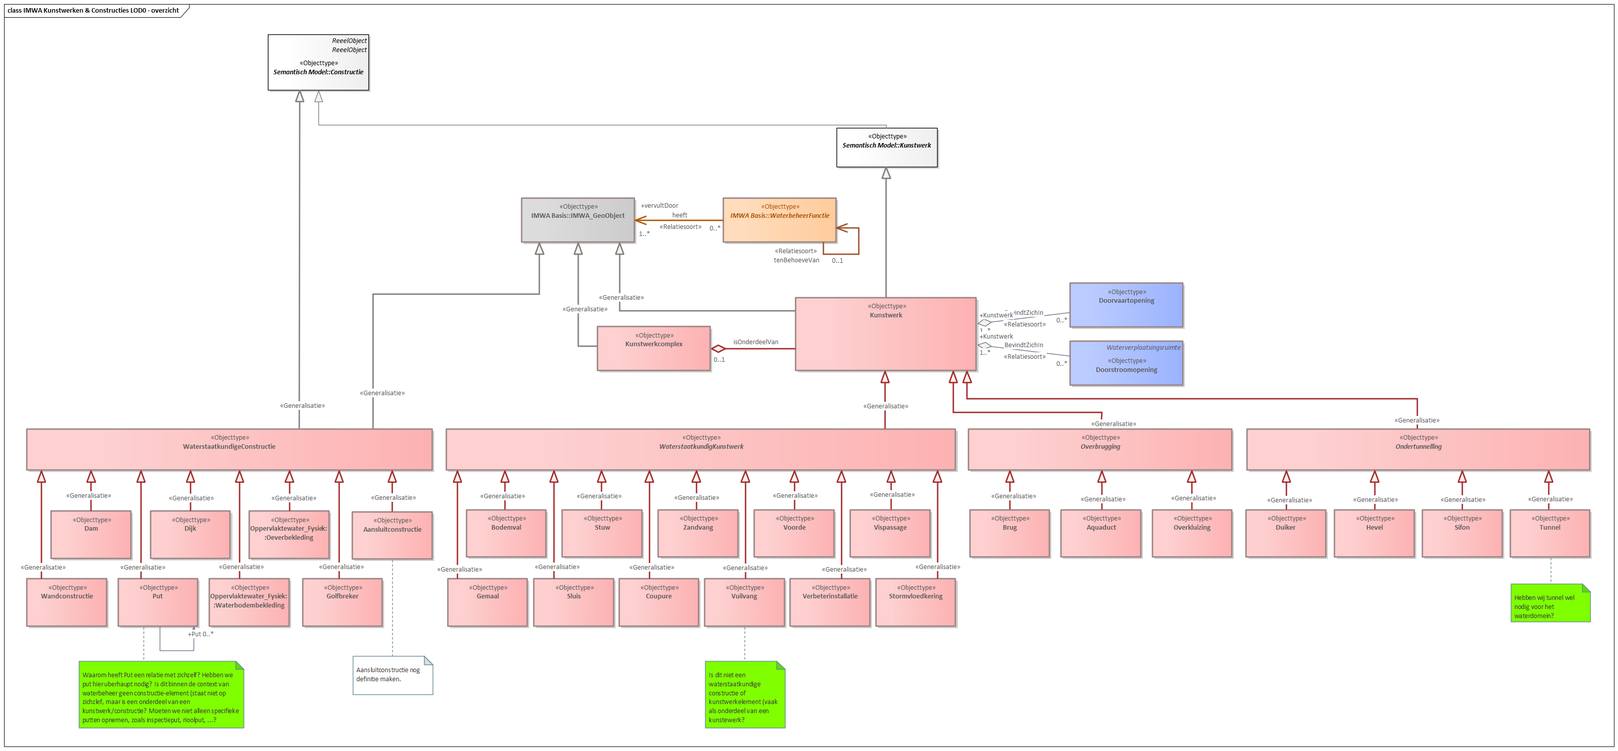
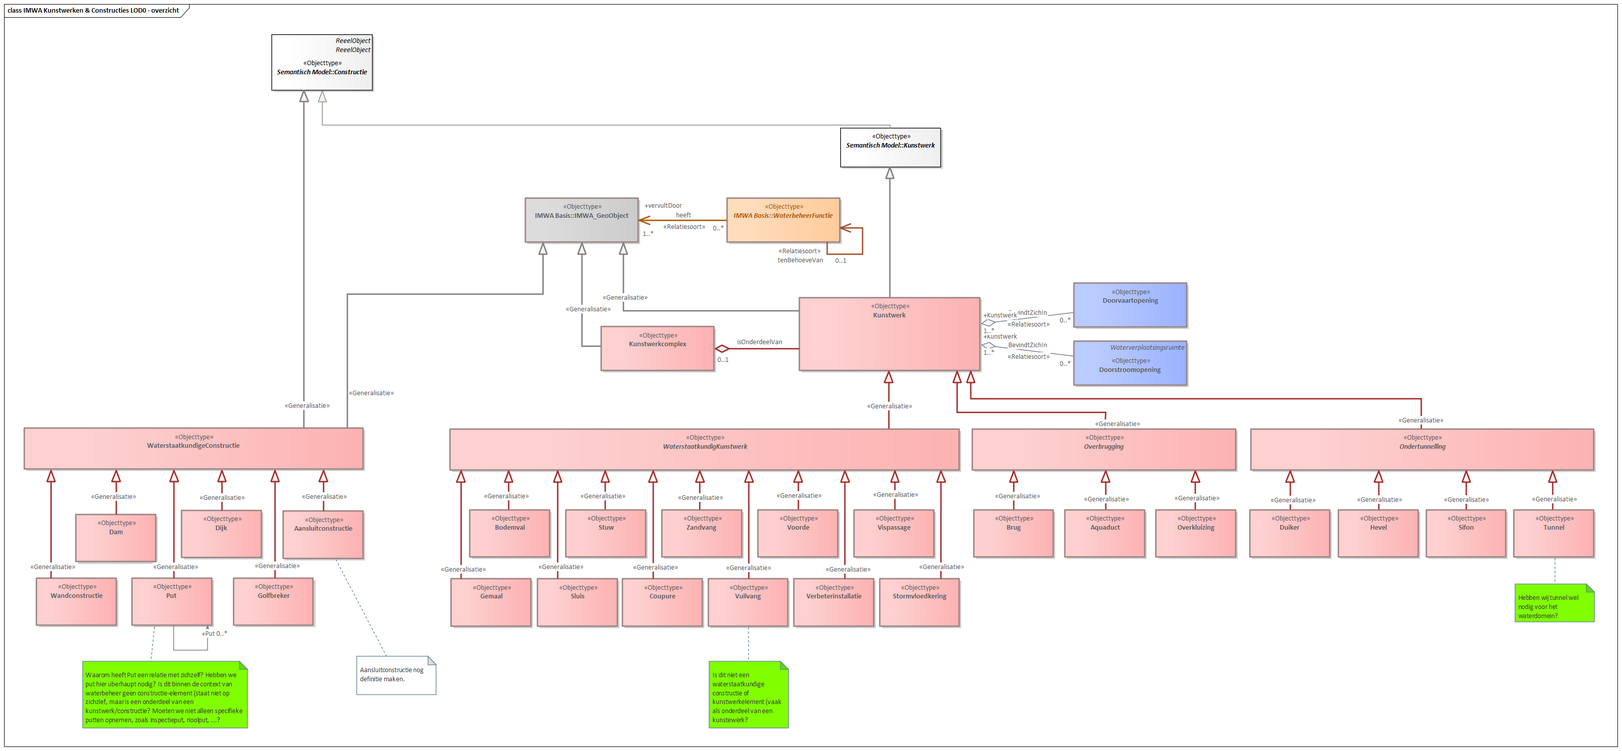
SIM-IMWA2024Kunstwerken-22.1-1-20231026-20231123-094743

diff --git a/data/IMWA-KW-cat.respec.full.html b/data/IMWA-KW-cat.respec.full.html
@@ -32,7 +32,7 @@
       </section>
       <section id="sotd">
          <p>
-            Deze documentatie van het conceptueel model is laatst bijgewerkt op November 22, 2023 at 15:55:18.
+            Deze documentatie van het conceptueel model is laatst bijgewerkt op November 23, 2023 at 09:48:03.
             </p>
       </section>
       <section id="prologue" class="informative" level="1">
@@ -44,10 +44,10 @@
       <section id="cat" class="normative">
          <h2>Gegevensdefinitie</h2>
          <p><b>Deze tekst is normatief.</b>
-            <!--SIM-IMWA2024Kunstwerken-22.1-1-20231026-20231122-155458 imvertor Nightly-build.13--></p>
+            <!--SIM-IMWA2024Kunstwerken-22.1-1-20231026-20231123-094743 imvertor Nightly-build.13--></p>
          <section id="global_package_KunstwerkenConstructies">
             <h3>Domein   Kunstwerken &amp; Constructies</h3>
-            <div class="imageinfo overview"><img src="Images/EAID_213362C7_D62D_4ac6_AD45_44339833EAC1.png" usemap="#imagemap-EAID_213362C7_D62D_4ac6_AD45_44339833EAC1" alt="Diagram &#xA;                        &#xA;                     "><map name="imagemap-EAID_213362C7_D62D_4ac6_AD45_44339833EAC1"><area shape="rect" alt="Aansluitconstructie" coords="697,1013,856,1107" href="#global_class_KunstwerkenConstructies_Aansluitconstructie"><area shape="rect" alt="Kunstwerkcomplex" coords="1182,646,1406,734" href="#global_class_KunstwerkenConstructies_Kunstwerkcomplex"><area shape="rect" alt="Doorvaartopening" coords="2117,560,2341,648" href="#global_class_KunstwerkenConstructies_Doorvaartopening"><area shape="rect" alt="Doorstroomopening" coords="2117,675,2341,763" href="#global_class_KunstwerkenConstructies_Doorstroomopening"><area shape="rect" alt="Vispassage" coords="1682,1009,1841,1103" href="#global_class_KunstwerkenConstructies_Vispassage"><area shape="rect" alt="Verbeterinstallatie" coords="1563,1145,1722,1240" href="#global_class_KunstwerkenConstructies_Verbeterinstallatie"><area shape="rect" alt="Vuilvang" coords="1394,1145,1553,1240" href="#global_class_KunstwerkenConstructies_Vuilvang"><area shape="rect" alt="Stormvloedkering" coords="1733,1145,1891,1240" href="#global_class_KunstwerkenConstructies_Stormvloedkering"><area shape="rect" alt="Gemaal" coords="886,1145,1044,1240" href="#global_class_KunstwerkenConstructies_Gemaal"><area shape="rect" alt="Overkluizing" coords="2280,1009,2438,1103" href="#global_class_KunstwerkenConstructies_Overkluizing"><area shape="rect" alt="Tunnel" coords="2988,1009,3146,1103" href="#global_class_KunstwerkenConstructies_Tunnel"><area shape="rect" alt="Coupure" coords="1225,1145,1383,1240" href="#global_class_KunstwerkenConstructies_Coupure"><area shape="rect" alt="Bodemval" coords="923,1009,1081,1103" href="#global_class_KunstwerkenConstructies_Bodemval"><area shape="rect" alt="Voorde" coords="1492,1009,1651,1103" href="#global_class_KunstwerkenConstructies_Voorde"><area shape="rect" alt="Aquaduct" coords="2099,1009,2258,1103" href="#global_class_KunstwerkenConstructies_Aquaduct"><area shape="rect" alt="Stuw" coords="1112,1009,1271,1103" href="#global_class_KunstwerkenConstructies_Stuw"><area shape="rect" alt="Sifon" coords="2814,1009,2973,1103" href="#global_class_KunstwerkenConstructies_Sifon"><area shape="rect" alt="Hevel" coords="2640,1009,2799,1103" href="#global_class_KunstwerkenConstructies_Hevel"><area shape="rect" alt="Duiker" coords="2465,1009,2624,1103" href="#global_class_KunstwerkenConstructies_Duiker"><area shape="rect" alt="Zandvang" coords="1302,1009,1461,1103" href="#global_class_KunstwerkenConstructies_Zandvang"><area shape="rect" alt="Ondertunnelling" coords="2467,849,3146,931" href="#global_class_KunstwerkenConstructies_Ondertunnelling"><area shape="rect" alt="Brug" coords="1919,1009,2077,1103" href="#global_class_KunstwerkenConstructies_Brug"><area shape="rect" alt="WaterstaatkundigKunstwerk" coords="883,849,1891,931" href="#global_class_KunstwerkenConstructies_WaterstaatkundigKunstwerk"><area shape="rect" alt="Overbrugging" coords="1916,849,2438,931" href="#global_class_KunstwerkenConstructies_Overbrugging"><area shape="rect" alt="Sluis" coords="1056,1145,1215,1240" href="#global_class_KunstwerkenConstructies_Sluis"><area shape="rect" alt="Kunstwerk" coords="1574,589,1932,734" href="#global_class_KunstwerkenConstructies_Kunstwerk"><area shape="rect" alt="WaterstaatkundigeConstructie" coords="53,849,856,931" href="#global_class_KunstwerkenConstructies_WaterstaatkundigeConstructie"><area shape="rect" alt="Golfbreker" coords="599,1145,757,1240" href="#global_class_KunstwerkenConstructies_Golfbreker"><area shape="rect" alt="Put" coords="234,1145,392,1240" href="#global_class_KunstwerkenConstructies_Put"><area shape="rect" alt="Dijk" coords="298,1011,456,1106" href="#global_class_KunstwerkenConstructies_Dijk"><area shape="rect" alt="Wandconstructie" coords="53,1145,212,1240" href="#global_class_KunstwerkenConstructies_Wandconstructie"><area shape="rect" alt="Dam" coords="101,1011,260,1106" href="#global_class_KunstwerkenConstructies_Dam"></map><p><b>IMWA Kunstwerken &amp; Constructies LOD0 - overzicht</b></p>
+            <div class="imageinfo overview"><img src="Images/EAID_213362C7_D62D_4ac6_AD45_44339833EAC1.png" usemap="#imagemap-EAID_213362C7_D62D_4ac6_AD45_44339833EAC1" alt="Diagram &#xA;                        &#xA;                     "><map name="imagemap-EAID_213362C7_D62D_4ac6_AD45_44339833EAC1"><area shape="rect" alt="Aansluitconstructie" coords="560,1011,719,1106" href="#global_class_KunstwerkenConstructies_Aansluitconstructie"><area shape="rect" alt="Kunstwerkcomplex" coords="1189,646,1413,734" href="#global_class_KunstwerkenConstructies_Kunstwerkcomplex"><area shape="rect" alt="Doorvaartopening" coords="2124,560,2348,648" href="#global_class_KunstwerkenConstructies_Doorvaartopening"><area shape="rect" alt="Doorstroomopening" coords="2124,675,2348,763" href="#global_class_KunstwerkenConstructies_Doorstroomopening"><area shape="rect" alt="Vispassage" coords="1689,1009,1848,1103" href="#global_class_KunstwerkenConstructies_Vispassage"><area shape="rect" alt="Verbeterinstallatie" coords="1570,1145,1729,1240" href="#global_class_KunstwerkenConstructies_Verbeterinstallatie"><area shape="rect" alt="Vuilvang" coords="1401,1145,1559,1240" href="#global_class_KunstwerkenConstructies_Vuilvang"><area shape="rect" alt="Stormvloedkering" coords="1740,1145,1898,1240" href="#global_class_KunstwerkenConstructies_Stormvloedkering"><area shape="rect" alt="Gemaal" coords="892,1145,1051,1240" href="#global_class_KunstwerkenConstructies_Gemaal"><area shape="rect" alt="Overkluizing" coords="2286,1009,2445,1103" href="#global_class_KunstwerkenConstructies_Overkluizing"><area shape="rect" alt="Tunnel" coords="2994,1009,3153,1103" href="#global_class_KunstwerkenConstructies_Tunnel"><area shape="rect" alt="Coupure" coords="1231,1145,1390,1240" href="#global_class_KunstwerkenConstructies_Coupure"><area shape="rect" alt="Bodemval" coords="929,1009,1088,1103" href="#global_class_KunstwerkenConstructies_Bodemval"><area shape="rect" alt="Voorde" coords="1499,1009,1658,1103" href="#global_class_KunstwerkenConstructies_Voorde"><area shape="rect" alt="Aquaduct" coords="2106,1009,2265,1103" href="#global_class_KunstwerkenConstructies_Aquaduct"><area shape="rect" alt="Stuw" coords="1119,1009,1278,1103" href="#global_class_KunstwerkenConstructies_Stuw"><area shape="rect" alt="Sifon" coords="2821,1009,2979,1103" href="#global_class_KunstwerkenConstructies_Sifon"><area shape="rect" alt="Hevel" coords="2647,1009,2806,1103" href="#global_class_KunstwerkenConstructies_Hevel"><area shape="rect" alt="Duiker" coords="2472,1009,2631,1103" href="#global_class_KunstwerkenConstructies_Duiker"><area shape="rect" alt="Zandvang" coords="1309,1009,1468,1103" href="#global_class_KunstwerkenConstructies_Zandvang"><area shape="rect" alt="Ondertunnelling" coords="2474,849,3153,931" href="#global_class_KunstwerkenConstructies_Ondertunnelling"><area shape="rect" alt="Brug" coords="1926,1009,2084,1103" href="#global_class_KunstwerkenConstructies_Brug"><area shape="rect" alt="WaterstaatkundigKunstwerk" coords="890,849,1898,931" href="#global_class_KunstwerkenConstructies_WaterstaatkundigKunstwerk"><area shape="rect" alt="Overbrugging" coords="1923,849,2445,931" href="#global_class_KunstwerkenConstructies_Overbrugging"><area shape="rect" alt="Sluis" coords="1063,1145,1222,1240" href="#global_class_KunstwerkenConstructies_Sluis"><area shape="rect" alt="Kunstwerk" coords="1581,589,1939,734" href="#global_class_KunstwerkenConstructies_Kunstwerk"><area shape="rect" alt="WaterstaatkundigeConstructie" coords="48,847,719,929" href="#global_class_KunstwerkenConstructies_WaterstaatkundigeConstructie"><area shape="rect" alt="Golfbreker" coords="462,1144,620,1238" href="#global_class_KunstwerkenConstructies_Golfbreker"><area shape="rect" alt="Put" coords="261,1144,420,1238" href="#global_class_KunstwerkenConstructies_Put"><area shape="rect" alt="Dijk" coords="359,1010,518,1104" href="#global_class_KunstwerkenConstructies_Dijk"><area shape="rect" alt="Wandconstructie" coords="72,1144,231,1238" href="#global_class_KunstwerkenConstructies_Wandconstructie"><area shape="rect" alt="Dam" coords="150,1018,309,1112" href="#global_class_KunstwerkenConstructies_Dam"></map><p><b>IMWA Kunstwerken &amp; Constructies LOD0 - overzicht</b></p>
             </div>
             <div class="imageinfo overview"><img src="Images/EAID_708D0E0D_D16B_4aab_AD9E_EC33FC895A26.png" usemap="#imagemap-EAID_708D0E0D_D16B_4aab_AD9E_EC33FC895A26" alt="Diagram &#xA;                        &#xA;                     "><map name="imagemap-EAID_708D0E0D_D16B_4aab_AD9E_EC33FC895A26"><area shape="rect" alt="Aansluitconstructie" coords="228,1264,529,1386" href="#global_class_KunstwerkenConstructies_Aansluitconstructie"><area shape="rect" alt="Kunstwerkcomplex" coords="1380,754,1604,864" href="#global_class_KunstwerkenConstructies_Kunstwerkcomplex"><area shape="rect" alt="Doorvaartopening" coords="2465,879,2821,1005" href="#global_class_KunstwerkenConstructies_Doorvaartopening"><area shape="rect" alt="Doorstroomopening" coords="2463,649,2822,851" href="#global_class_KunstwerkenConstructies_Doorstroomopening"><area shape="rect" alt="Vispassage" coords="1061,1807,1279,1946" href="#global_class_KunstwerkenConstructies_Vispassage"><area shape="rect" alt="Verbeterinstallatie" coords="1164,2005,1460,2144" href="#global_class_KunstwerkenConstructies_Verbeterinstallatie"><area shape="rect" alt="Vuilvang" coords="942,2005,1138,2144" href="#global_class_KunstwerkenConstructies_Vuilvang"><area shape="rect" alt="Stormvloedkering" coords="1330,1807,1527,1946" href="#global_class_KunstwerkenConstructies_Stormvloedkering"><area shape="rect" alt="Gemaal" coords="328,1807,525,1946" href="#global_class_KunstwerkenConstructies_Gemaal"><area shape="rect" alt="Overkluizing" coords="2224,1807,2457,1946" href="#global_class_KunstwerkenConstructies_Overkluizing"><area shape="rect" alt="Tunnel" coords="3816,1807,4049,1964" href="#global_class_KunstwerkenConstructies_Tunnel"><area shape="rect" alt="Coupure" coords="682,2005,913,2144" href="#global_class_KunstwerkenConstructies_Coupure"><area shape="rect" alt="Bodemval" coords="48,2005,398,2144" href="#global_class_KunstwerkenConstructies_Bodemval"><area shape="rect" alt="Voorde" coords="577,1807,774,1946" href="#global_class_KunstwerkenConstructies_Voorde"><area shape="rect" alt="Aquaduct" coords="1855,1807,2204,1946" href="#global_class_KunstwerkenConstructies_Aquaduct"><area shape="rect" alt="Stuw" coords="422,2005,653,2144" href="#global_class_KunstwerkenConstructies_Stuw"><area shape="rect" alt="Sifon" coords="3380,1807,3786,1964" href="#global_class_KunstwerkenConstructies_Sifon"><area shape="rect" alt="Hevel" coords="2934,1807,3348,1964" href="#global_class_KunstwerkenConstructies_Hevel"><area shape="rect" alt="Duiker" coords="2505,1807,2911,1963" href="#global_class_KunstwerkenConstructies_Duiker"><area shape="rect" alt="Zandvang" coords="817,1807,1014,1946" href="#global_class_KunstwerkenConstructies_Zandvang"><area shape="rect" alt="Ondertunnelling" coords="3145,1542,3583,1628" href="#global_class_KunstwerkenConstructies_Ondertunnelling"><area shape="rect" alt="Brug" coords="1563,1807,1841,1946" href="#global_class_KunstwerkenConstructies_Brug"><area shape="rect" alt="WaterstaatkundigKunstwerk" coords="585,1542,1074,1625" href="#global_class_KunstwerkenConstructies_WaterstaatkundigKunstwerk"><area shape="rect" alt="Overbrugging" coords="1908,1542,2109,1625" href="#global_class_KunstwerkenConstructies_Overbrugging"><area shape="rect" alt="Sluis" coords="48,1807,279,1946" href="#global_class_KunstwerkenConstructies_Sluis"><area shape="rect" alt="Kunstwerk" coords="1830,741,2187,992" href="#global_class_KunstwerkenConstructies_Kunstwerk"><area shape="rect" alt="WaterstaatkundigeConstructie" coords="649,742,1099,962" href="#global_class_KunstwerkenConstructies_WaterstaatkundigeConstructie"><area shape="rect" alt="Golfbreker" coords="924,1264,1141,1386" href="#global_class_KunstwerkenConstructies_Golfbreker"><area shape="rect" alt="Put" coords="1036,1084,1212,1205" href="#global_class_KunstwerkenConstructies_Put"><area shape="rect" alt="Dijk" coords="768,1084,968,1205" href="#global_class_KunstwerkenConstructies_Dijk"><area shape="rect" alt="Wandconstructie" coords="573,1264,862,1386" href="#global_class_KunstwerkenConstructies_Wandconstructie"><area shape="rect" alt="Dam" coords="467,1084,712,1205" href="#global_class_KunstwerkenConstructies_Dam"></map><p><b>IMWA Kunstwerken &amp; Constructies LOD1 - overzicht</b></p>
             </div>

diff --git a/data/IMWA-KW-cat.respec.html b/data/IMWA-KW-cat.respec.html
@@ -32,7 +32,7 @@
       </section>
       <section id="sotd">
          <p>
-            Deze documentatie van het conceptueel model is laatst bijgewerkt op November 22, 2023 at 15:55:18.
+            Deze documentatie van het conceptueel model is laatst bijgewerkt op November 23, 2023 at 09:48:04.
             </p>
       </section>
       <section id="prologue" class="informative" level="1">
@@ -44,10 +44,10 @@
       <section id="cat" class="normative">
          <h2>Gegevensdefinitie</h2>
          <p><b>Deze tekst is normatief.</b>
-            <!--SIM-IMWA2024Kunstwerken-22.1-1-20231026-20231122-155458 imvertor Nightly-build.13--></p>
+            <!--SIM-IMWA2024Kunstwerken-22.1-1-20231026-20231123-094743 imvertor Nightly-build.13--></p>
          <section id="global_package_KunstwerkenConstructies">
             <h3>Domein   Kunstwerken &amp; Constructies</h3>
-            <div class="imageinfo overview"><img src="Images/EAID_213362C7_D62D_4ac6_AD45_44339833EAC1.png" usemap="#imagemap-EAID_213362C7_D62D_4ac6_AD45_44339833EAC1" alt="Diagram &#xA;                        &#xA;                     "><map name="imagemap-EAID_213362C7_D62D_4ac6_AD45_44339833EAC1"><area shape="rect" alt="Aansluitconstructie" coords="697,1013,856,1107" href="#global_class_KunstwerkenConstructies_Aansluitconstructie"><area shape="rect" alt="Kunstwerkcomplex" coords="1182,646,1406,734" href="#global_class_KunstwerkenConstructies_Kunstwerkcomplex"><area shape="rect" alt="Doorvaartopening" coords="2117,560,2341,648" href="#global_class_KunstwerkenConstructies_Doorvaartopening"><area shape="rect" alt="Doorstroomopening" coords="2117,675,2341,763" href="#global_class_KunstwerkenConstructies_Doorstroomopening"><area shape="rect" alt="Vispassage" coords="1682,1009,1841,1103" href="#global_class_KunstwerkenConstructies_Vispassage"><area shape="rect" alt="Verbeterinstallatie" coords="1563,1145,1722,1240" href="#global_class_KunstwerkenConstructies_Verbeterinstallatie"><area shape="rect" alt="Vuilvang" coords="1394,1145,1553,1240" href="#global_class_KunstwerkenConstructies_Vuilvang"><area shape="rect" alt="Stormvloedkering" coords="1733,1145,1891,1240" href="#global_class_KunstwerkenConstructies_Stormvloedkering"><area shape="rect" alt="Gemaal" coords="886,1145,1044,1240" href="#global_class_KunstwerkenConstructies_Gemaal"><area shape="rect" alt="Overkluizing" coords="2280,1009,2438,1103" href="#global_class_KunstwerkenConstructies_Overkluizing"><area shape="rect" alt="Tunnel" coords="2988,1009,3146,1103" href="#global_class_KunstwerkenConstructies_Tunnel"><area shape="rect" alt="Coupure" coords="1225,1145,1383,1240" href="#global_class_KunstwerkenConstructies_Coupure"><area shape="rect" alt="Bodemval" coords="923,1009,1081,1103" href="#global_class_KunstwerkenConstructies_Bodemval"><area shape="rect" alt="Voorde" coords="1492,1009,1651,1103" href="#global_class_KunstwerkenConstructies_Voorde"><area shape="rect" alt="Aquaduct" coords="2099,1009,2258,1103" href="#global_class_KunstwerkenConstructies_Aquaduct"><area shape="rect" alt="Stuw" coords="1112,1009,1271,1103" href="#global_class_KunstwerkenConstructies_Stuw"><area shape="rect" alt="Sifon" coords="2814,1009,2973,1103" href="#global_class_KunstwerkenConstructies_Sifon"><area shape="rect" alt="Hevel" coords="2640,1009,2799,1103" href="#global_class_KunstwerkenConstructies_Hevel"><area shape="rect" alt="Duiker" coords="2465,1009,2624,1103" href="#global_class_KunstwerkenConstructies_Duiker"><area shape="rect" alt="Zandvang" coords="1302,1009,1461,1103" href="#global_class_KunstwerkenConstructies_Zandvang"><area shape="rect" alt="Ondertunnelling" coords="2467,849,3146,931" href="#global_class_KunstwerkenConstructies_Ondertunnelling"><area shape="rect" alt="Brug" coords="1919,1009,2077,1103" href="#global_class_KunstwerkenConstructies_Brug"><area shape="rect" alt="WaterstaatkundigKunstwerk" coords="883,849,1891,931" href="#global_class_KunstwerkenConstructies_WaterstaatkundigKunstwerk"><area shape="rect" alt="Overbrugging" coords="1916,849,2438,931" href="#global_class_KunstwerkenConstructies_Overbrugging"><area shape="rect" alt="Sluis" coords="1056,1145,1215,1240" href="#global_class_KunstwerkenConstructies_Sluis"><area shape="rect" alt="Kunstwerk" coords="1574,589,1932,734" href="#global_class_KunstwerkenConstructies_Kunstwerk"><area shape="rect" alt="WaterstaatkundigeConstructie" coords="53,849,856,931" href="#global_class_KunstwerkenConstructies_WaterstaatkundigeConstructie"><area shape="rect" alt="Golfbreker" coords="599,1145,757,1240" href="#global_class_KunstwerkenConstructies_Golfbreker"><area shape="rect" alt="Put" coords="234,1145,392,1240" href="#global_class_KunstwerkenConstructies_Put"><area shape="rect" alt="Dijk" coords="298,1011,456,1106" href="#global_class_KunstwerkenConstructies_Dijk"><area shape="rect" alt="Wandconstructie" coords="53,1145,212,1240" href="#global_class_KunstwerkenConstructies_Wandconstructie"><area shape="rect" alt="Dam" coords="101,1011,260,1106" href="#global_class_KunstwerkenConstructies_Dam"></map><p><b>IMWA Kunstwerken &amp; Constructies LOD0 - overzicht</b></p>
+            <div class="imageinfo overview"><img src="Images/EAID_213362C7_D62D_4ac6_AD45_44339833EAC1.png" usemap="#imagemap-EAID_213362C7_D62D_4ac6_AD45_44339833EAC1" alt="Diagram &#xA;                        &#xA;                     "><map name="imagemap-EAID_213362C7_D62D_4ac6_AD45_44339833EAC1"><area shape="rect" alt="Aansluitconstructie" coords="560,1011,719,1106" href="#global_class_KunstwerkenConstructies_Aansluitconstructie"><area shape="rect" alt="Kunstwerkcomplex" coords="1189,646,1413,734" href="#global_class_KunstwerkenConstructies_Kunstwerkcomplex"><area shape="rect" alt="Doorvaartopening" coords="2124,560,2348,648" href="#global_class_KunstwerkenConstructies_Doorvaartopening"><area shape="rect" alt="Doorstroomopening" coords="2124,675,2348,763" href="#global_class_KunstwerkenConstructies_Doorstroomopening"><area shape="rect" alt="Vispassage" coords="1689,1009,1848,1103" href="#global_class_KunstwerkenConstructies_Vispassage"><area shape="rect" alt="Verbeterinstallatie" coords="1570,1145,1729,1240" href="#global_class_KunstwerkenConstructies_Verbeterinstallatie"><area shape="rect" alt="Vuilvang" coords="1401,1145,1559,1240" href="#global_class_KunstwerkenConstructies_Vuilvang"><area shape="rect" alt="Stormvloedkering" coords="1740,1145,1898,1240" href="#global_class_KunstwerkenConstructies_Stormvloedkering"><area shape="rect" alt="Gemaal" coords="892,1145,1051,1240" href="#global_class_KunstwerkenConstructies_Gemaal"><area shape="rect" alt="Overkluizing" coords="2286,1009,2445,1103" href="#global_class_KunstwerkenConstructies_Overkluizing"><area shape="rect" alt="Tunnel" coords="2994,1009,3153,1103" href="#global_class_KunstwerkenConstructies_Tunnel"><area shape="rect" alt="Coupure" coords="1231,1145,1390,1240" href="#global_class_KunstwerkenConstructies_Coupure"><area shape="rect" alt="Bodemval" coords="929,1009,1088,1103" href="#global_class_KunstwerkenConstructies_Bodemval"><area shape="rect" alt="Voorde" coords="1499,1009,1658,1103" href="#global_class_KunstwerkenConstructies_Voorde"><area shape="rect" alt="Aquaduct" coords="2106,1009,2265,1103" href="#global_class_KunstwerkenConstructies_Aquaduct"><area shape="rect" alt="Stuw" coords="1119,1009,1278,1103" href="#global_class_KunstwerkenConstructies_Stuw"><area shape="rect" alt="Sifon" coords="2821,1009,2979,1103" href="#global_class_KunstwerkenConstructies_Sifon"><area shape="rect" alt="Hevel" coords="2647,1009,2806,1103" href="#global_class_KunstwerkenConstructies_Hevel"><area shape="rect" alt="Duiker" coords="2472,1009,2631,1103" href="#global_class_KunstwerkenConstructies_Duiker"><area shape="rect" alt="Zandvang" coords="1309,1009,1468,1103" href="#global_class_KunstwerkenConstructies_Zandvang"><area shape="rect" alt="Ondertunnelling" coords="2474,849,3153,931" href="#global_class_KunstwerkenConstructies_Ondertunnelling"><area shape="rect" alt="Brug" coords="1926,1009,2084,1103" href="#global_class_KunstwerkenConstructies_Brug"><area shape="rect" alt="WaterstaatkundigKunstwerk" coords="890,849,1898,931" href="#global_class_KunstwerkenConstructies_WaterstaatkundigKunstwerk"><area shape="rect" alt="Overbrugging" coords="1923,849,2445,931" href="#global_class_KunstwerkenConstructies_Overbrugging"><area shape="rect" alt="Sluis" coords="1063,1145,1222,1240" href="#global_class_KunstwerkenConstructies_Sluis"><area shape="rect" alt="Kunstwerk" coords="1581,589,1939,734" href="#global_class_KunstwerkenConstructies_Kunstwerk"><area shape="rect" alt="WaterstaatkundigeConstructie" coords="48,847,719,929" href="#global_class_KunstwerkenConstructies_WaterstaatkundigeConstructie"><area shape="rect" alt="Golfbreker" coords="462,1144,620,1238" href="#global_class_KunstwerkenConstructies_Golfbreker"><area shape="rect" alt="Put" coords="261,1144,420,1238" href="#global_class_KunstwerkenConstructies_Put"><area shape="rect" alt="Dijk" coords="359,1010,518,1104" href="#global_class_KunstwerkenConstructies_Dijk"><area shape="rect" alt="Wandconstructie" coords="72,1144,231,1238" href="#global_class_KunstwerkenConstructies_Wandconstructie"><area shape="rect" alt="Dam" coords="150,1018,309,1112" href="#global_class_KunstwerkenConstructies_Dam"></map><p><b>IMWA Kunstwerken &amp; Constructies LOD0 - overzicht</b></p>
             </div>
             <div class="imageinfo overview"><img src="Images/EAID_708D0E0D_D16B_4aab_AD9E_EC33FC895A26.png" usemap="#imagemap-EAID_708D0E0D_D16B_4aab_AD9E_EC33FC895A26" alt="Diagram &#xA;                        &#xA;                     "><map name="imagemap-EAID_708D0E0D_D16B_4aab_AD9E_EC33FC895A26"><area shape="rect" alt="Aansluitconstructie" coords="228,1264,529,1386" href="#global_class_KunstwerkenConstructies_Aansluitconstructie"><area shape="rect" alt="Kunstwerkcomplex" coords="1380,754,1604,864" href="#global_class_KunstwerkenConstructies_Kunstwerkcomplex"><area shape="rect" alt="Doorvaartopening" coords="2465,879,2821,1005" href="#global_class_KunstwerkenConstructies_Doorvaartopening"><area shape="rect" alt="Doorstroomopening" coords="2463,649,2822,851" href="#global_class_KunstwerkenConstructies_Doorstroomopening"><area shape="rect" alt="Vispassage" coords="1061,1807,1279,1946" href="#global_class_KunstwerkenConstructies_Vispassage"><area shape="rect" alt="Verbeterinstallatie" coords="1164,2005,1460,2144" href="#global_class_KunstwerkenConstructies_Verbeterinstallatie"><area shape="rect" alt="Vuilvang" coords="942,2005,1138,2144" href="#global_class_KunstwerkenConstructies_Vuilvang"><area shape="rect" alt="Stormvloedkering" coords="1330,1807,1527,1946" href="#global_class_KunstwerkenConstructies_Stormvloedkering"><area shape="rect" alt="Gemaal" coords="328,1807,525,1946" href="#global_class_KunstwerkenConstructies_Gemaal"><area shape="rect" alt="Overkluizing" coords="2224,1807,2457,1946" href="#global_class_KunstwerkenConstructies_Overkluizing"><area shape="rect" alt="Tunnel" coords="3816,1807,4049,1964" href="#global_class_KunstwerkenConstructies_Tunnel"><area shape="rect" alt="Coupure" coords="682,2005,913,2144" href="#global_class_KunstwerkenConstructies_Coupure"><area shape="rect" alt="Bodemval" coords="48,2005,398,2144" href="#global_class_KunstwerkenConstructies_Bodemval"><area shape="rect" alt="Voorde" coords="577,1807,774,1946" href="#global_class_KunstwerkenConstructies_Voorde"><area shape="rect" alt="Aquaduct" coords="1855,1807,2204,1946" href="#global_class_KunstwerkenConstructies_Aquaduct"><area shape="rect" alt="Stuw" coords="422,2005,653,2144" href="#global_class_KunstwerkenConstructies_Stuw"><area shape="rect" alt="Sifon" coords="3380,1807,3786,1964" href="#global_class_KunstwerkenConstructies_Sifon"><area shape="rect" alt="Hevel" coords="2934,1807,3348,1964" href="#global_class_KunstwerkenConstructies_Hevel"><area shape="rect" alt="Duiker" coords="2505,1807,2911,1963" href="#global_class_KunstwerkenConstructies_Duiker"><area shape="rect" alt="Zandvang" coords="817,1807,1014,1946" href="#global_class_KunstwerkenConstructies_Zandvang"><area shape="rect" alt="Ondertunnelling" coords="3145,1542,3583,1628" href="#global_class_KunstwerkenConstructies_Ondertunnelling"><area shape="rect" alt="Brug" coords="1563,1807,1841,1946" href="#global_class_KunstwerkenConstructies_Brug"><area shape="rect" alt="WaterstaatkundigKunstwerk" coords="585,1542,1074,1625" href="#global_class_KunstwerkenConstructies_WaterstaatkundigKunstwerk"><area shape="rect" alt="Overbrugging" coords="1908,1542,2109,1625" href="#global_class_KunstwerkenConstructies_Overbrugging"><area shape="rect" alt="Sluis" coords="48,1807,279,1946" href="#global_class_KunstwerkenConstructies_Sluis"><area shape="rect" alt="Kunstwerk" coords="1830,741,2187,992" href="#global_class_KunstwerkenConstructies_Kunstwerk"><area shape="rect" alt="WaterstaatkundigeConstructie" coords="649,742,1099,962" href="#global_class_KunstwerkenConstructies_WaterstaatkundigeConstructie"><area shape="rect" alt="Golfbreker" coords="924,1264,1141,1386" href="#global_class_KunstwerkenConstructies_Golfbreker"><area shape="rect" alt="Put" coords="1036,1084,1212,1205" href="#global_class_KunstwerkenConstructies_Put"><area shape="rect" alt="Dijk" coords="768,1084,968,1205" href="#global_class_KunstwerkenConstructies_Dijk"><area shape="rect" alt="Wandconstructie" coords="573,1264,862,1386" href="#global_class_KunstwerkenConstructies_Wandconstructie"><area shape="rect" alt="Dam" coords="467,1084,712,1205" href="#global_class_KunstwerkenConstructies_Dam"></map><p><b>IMWA Kunstwerken &amp; Constructies LOD1 - overzicht</b></p>
             </div>
